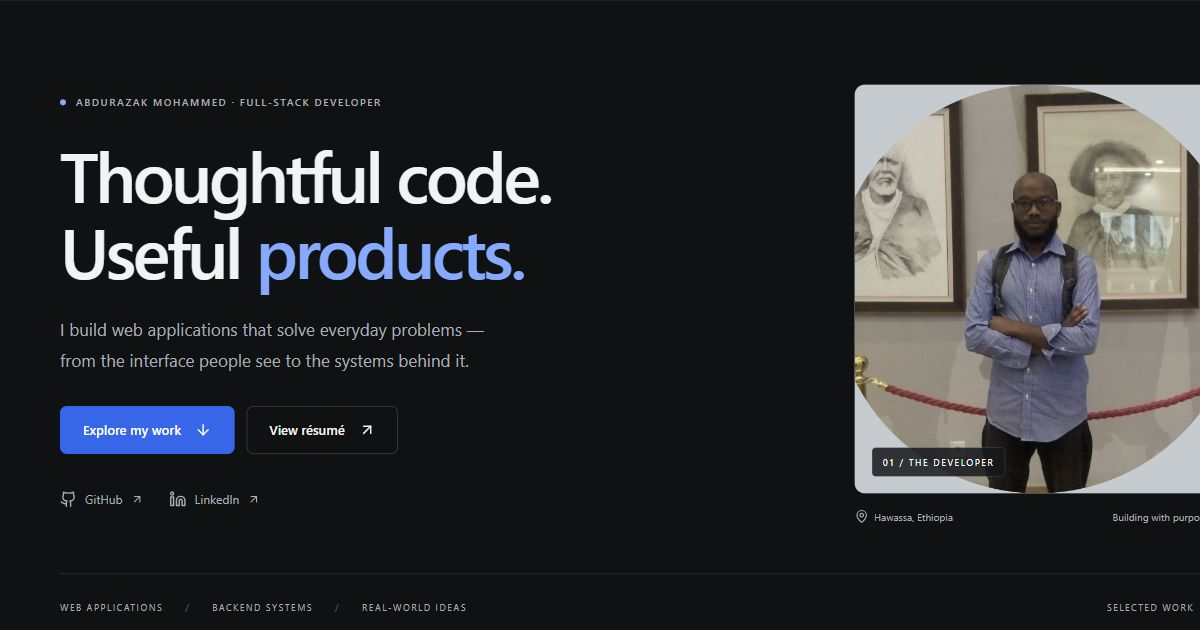
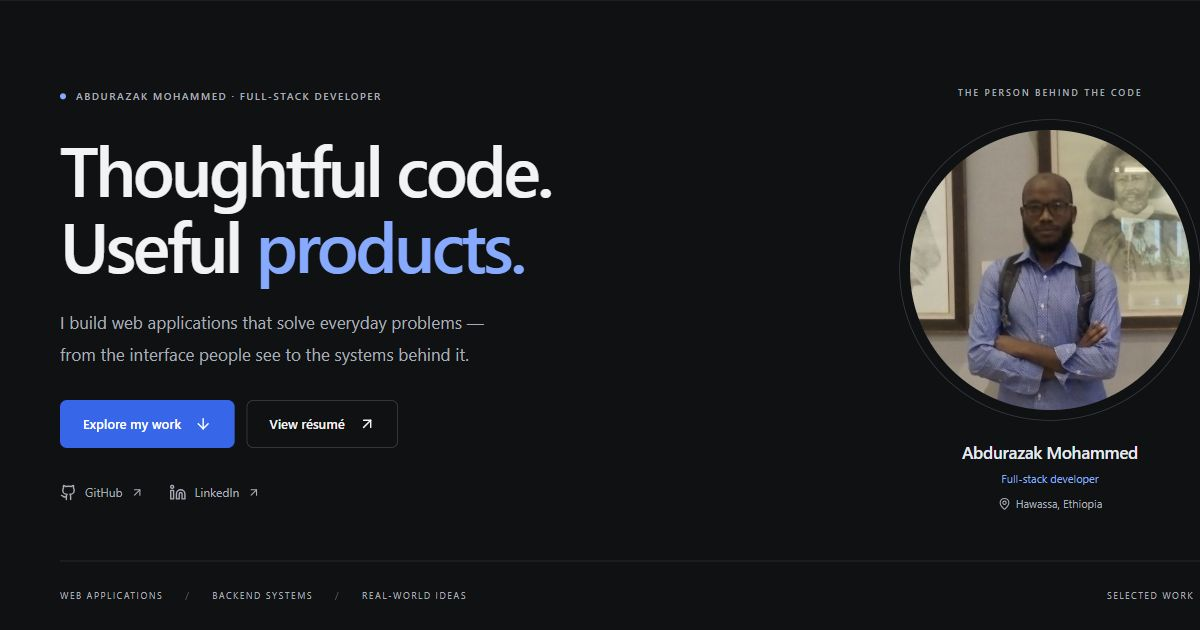
Refresh hero with a closer circular portrait and compact caption

diff --git a/src/index.css b/src/index.css
@@ -285,42 +285,55 @@ h2 > span {
 }
 .portrait-composition {
   width: 100%;
-  max-width: 365px;
+  max-width: 340px;
   justify-self: end;
+  margin: 0;
+  padding-inline: 12px;
+}
+.portrait-label {
+  text-align: center;
+  font-size: 9px;
+  letter-spacing: 2px;
+  margin-bottom: 30px;
 }
 .portrait-frame {
   position: relative;
-  aspect-ratio: 1/1.12;
-  background: #c6cbd0;
-  border-radius: 10px;
+  width: min(100%, 280px);
+  margin-inline: auto;
+  aspect-ratio: 1;
+  background: #1d2025;
+  border-radius: 50%;
+  outline: 1px solid #3a414c;
+  outline-offset: 10px;
   overflow: hidden;
 }
 .portrait-frame img {
   width: 100%;
   height: 100%;
   object-fit: cover;
-  object-position: center 25%;
-  filter: saturate(0.6);
-}
-.portrait-index {
-  position: absolute;
-  bottom: 17px;
-  left: 17px;
-  padding: 8px 10px;
-  background: #15171bd9;
-  color: white;
-  border: 1px solid #ffffff26;
-  border-radius: 4px;
-  font-size: 9px;
-  letter-spacing: 1.6px;
+  object-position: center;
+  transform: scale(1.65);
+  transform-origin: 50% 31%;
+  filter: saturate(0.75);
 }
 .portrait-caption {
   display: flex;
-  justify-content: space-between;
-  gap: 12px;
+  flex-direction: column;
+  align-items: center;
+  gap: 8px;
   color: var(--muted);
-  font-size: 10px;
-  margin-top: 16px;
+  font-size: 11px;
+  margin-top: 30px;
+}
+.portrait-caption strong {
+  color: #e6e9ef;
+  font-size: 17px;
+  font-weight: 500;
+  letter-spacing: -.3px;
+}
+.portrait-caption .portrait-role {
+  color: var(--blue);
+  margin-bottom: 3px;
 }
 .portrait-caption > span {
   display: flex;
@@ -1084,10 +1097,6 @@ summary::-webkit-details-marker {
     font-size: 9px;
     letter-spacing: 0.9px;
   }
-  .portrait-caption {
-    font-size: 9px;
-    flex-wrap: wrap;
-  }
   .section {
     padding-block: 80px;
   }
@@ -1213,25 +1222,28 @@ summary::-webkit-details-marker {
     max-width: none;
     width: 100%;
     display: grid;
-    grid-template-columns: 90px 1fr;
-    gap: 18px;
+    grid-template-columns: 80px 1fr;
+    gap: 24px;
     align-items: center;
     border-top: 1px solid var(--line);
-    padding-top: 24px;
+    padding: 28px 6px 0;
   }
   .portrait-frame {
-    aspect-ratio: 1;
-    border-radius: 8px;
+    outline-offset: 5px;
   }
-  .portrait-index {
+  .portrait-label {
     display: none;
   }
   .portrait-caption {
     flex-direction: column;
-    gap: 10px;
+    gap: 6px;
+    align-items: flex-start;
     justify-content: center;
     margin: 0;
     font-size: 11px;
+  }
+  .portrait-caption strong {
+    font-size: 14px;
   }
   .hero-footnote {
     margin-top: 0;

diff --git a/src/components/Hero.jsx b/src/components/Hero.jsx
@@ -53,26 +53,25 @@ export function Hero() {
           </a>
         </div>
       </div>
-      <div className="portrait-composition">
+      <figure className="portrait-composition">
+        <p className="portrait-label eyebrow">THE PERSON BEHIND THE CODE</p>
         <div className="portrait-frame">
           <img
             src="/abdurazak.png"
             alt="Abdurazak Mohammed"
-            width="560"
-            height="640"
+            width="722"
+            height="722"
             fetchPriority="high"
           />
-          <span className="portrait-index">01 / THE DEVELOPER</span>
         </div>
-        <div className="portrait-caption">
+        <figcaption className="portrait-caption">
+          <strong>Abdurazak Mohammed</strong>
+          <span className="portrait-role">Full-stack developer</span>
           <span>
-            <MapPin size={14} /> Hawassa, Ethiopia
+            <MapPin size={13} aria-hidden="true" /> Hawassa, Ethiopia
           </span>
-          <span>
-            Building with purpose <span className="blue-dot" />
-          </span>
-        </div>
-      </div>
+        </figcaption>
+      </figure>
       <div className="hero-footnote">
         <span>
           WEB APPLICATIONS <span>/</span> BACKEND SYSTEMS <span>/</span>{" "}
